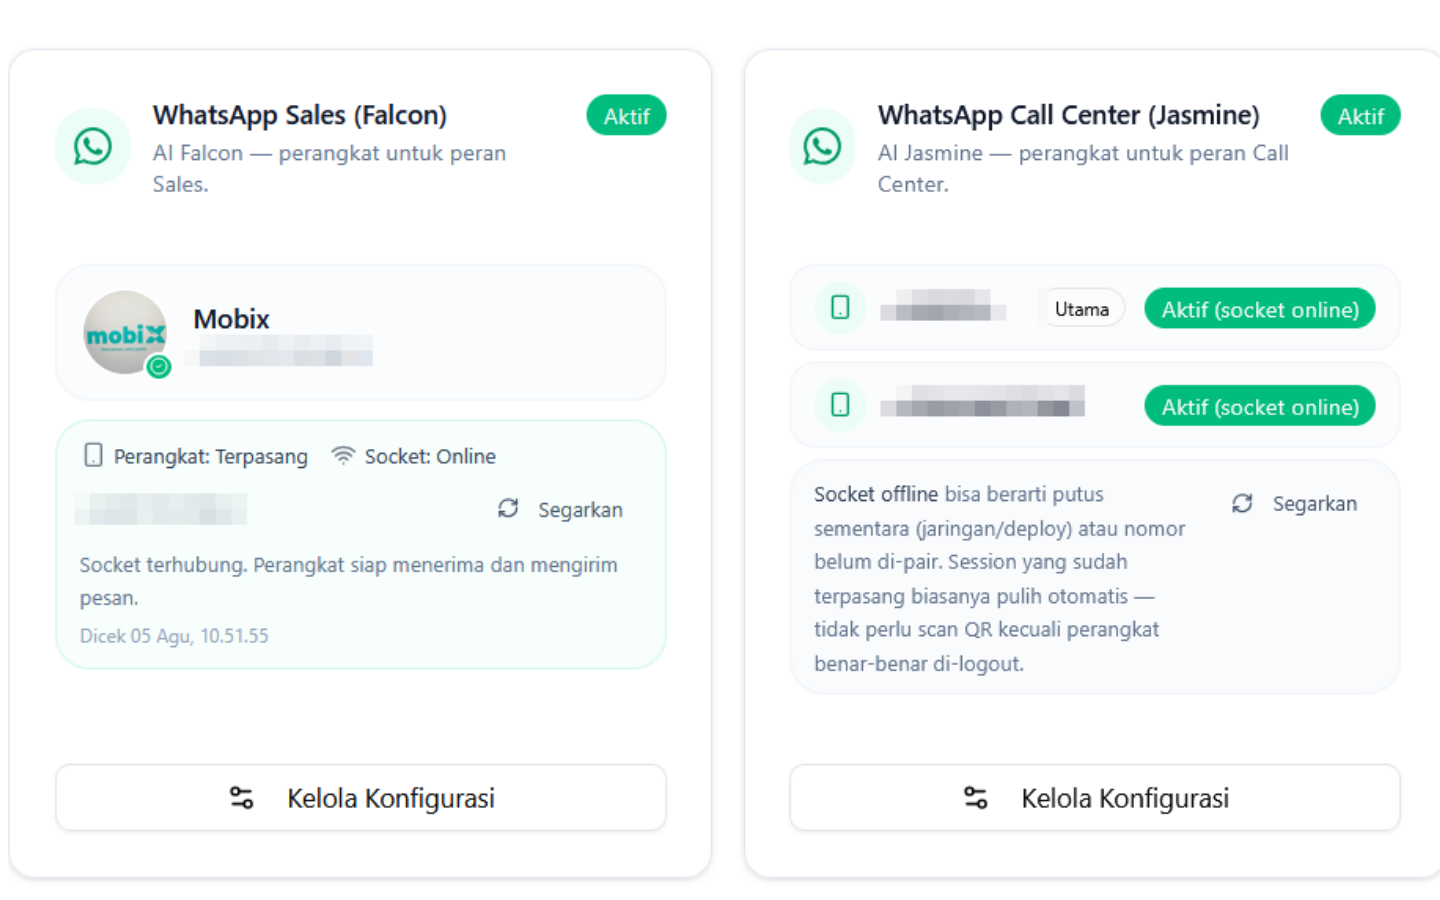
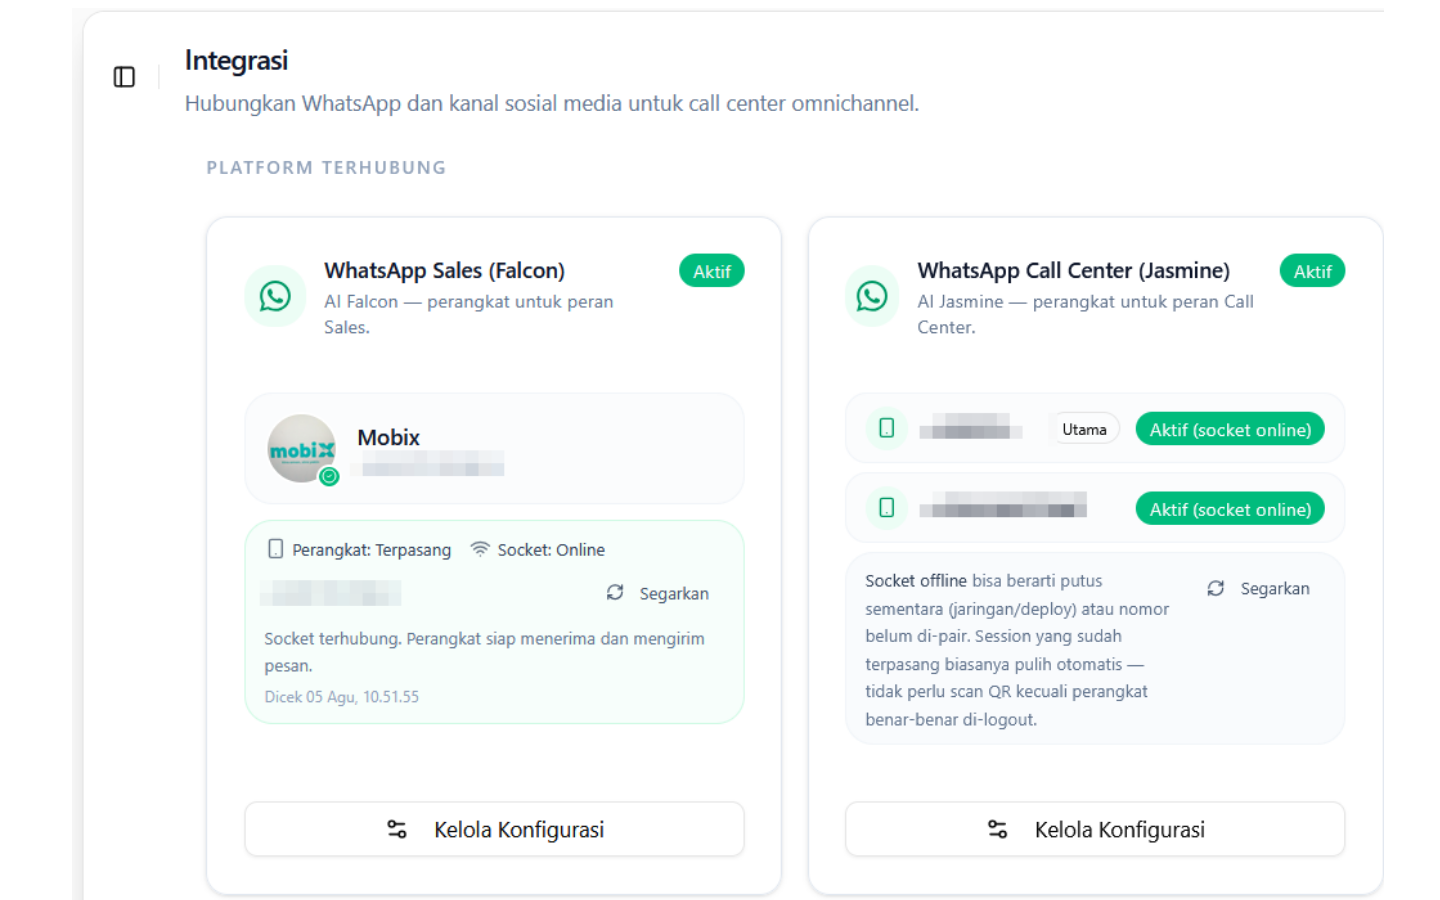
fix(fitur): tampilkan halaman integrasi penuh
Release-Feature: Core Platform Agentic AI
Release-Note: Fitur integrasi kini menampilkan halaman Integrasi secara utuh tanpa menu sidebar.

diff --git a/fitur/feature-page.js b/fitur/feature-page.js
@@ -560,7 +560,7 @@
     };
 
     if (id === "core-platform-agentic-ai") {
-      return [previewFactory("core-platform-whatsapp-integrations-public.png", "Core Platform · Integrasi WhatsApp"), previews.analytics, previews.integrations];
+      return [previewFactory("core-platform-whatsapp-integrations-public.png?v=20260806-1", "Core Platform · Integrasi WhatsApp"), previews.analytics, previews.integrations];
     }
     if (id === "omni-jasmine-ai") {
       return [previewFactory("omnichannel-faneling-public.png", "Omni + Jasmine AI"), previews.omni, previews.integrations];
@@ -641,7 +641,7 @@
     } else if (slug === "core-platform-agentic-ai" && /role|permission/i.test(capabilityTitle)) {
       preview = captured("core-platform-role-permission-public.png", "Core Platform · Role & Permission", "Admin mengatur hak akses per role melalui halaman edit permission yang lengkap.");
     } else if (slug === "core-platform-agentic-ai" && /integrasi channel/i.test(capabilityTitle)) {
-      preview = captured("core-platform-whatsapp-integrations-public.png", "Core Platform · Integrasi WhatsApp", "WhatsApp Sales dan Call Center aktif dalam satu pusat konfigurasi tanpa menampilkan kanal yang tidak relevan.");
+      preview = captured("core-platform-whatsapp-integrations-public.png?v=20260806-1", "Core Platform · Integrasi WhatsApp", "WhatsApp Sales dan Call Center aktif dalam satu pusat konfigurasi tanpa menampilkan kanal yang tidak relevan.");
     } else if (slug === "core-platform-agentic-ai" && /agentic ai|native tools/i.test(capabilityTitle)) {
       preview = captured("core-platform-native-ai-tools-public.png?v=20260805-2", "Core Platform · Native AI Tools", "Jasmine memakai inventori tenant untuk menjawab kebutuhan unit, memperbarui konteks lead, dan mendukung takeover serta handoff sesuai role.");
     } else if (slug === "inventory-falcon-ai" && /listing|import|validasi/i.test(capabilityTitle)) {

diff --git a/fitur/core-platform-agentic-ai.html b/fitur/core-platform-agentic-ai.html
@@ -66,7 +66,7 @@
 
     <script>window.__FEATURE_SLUG__ = "core-platform-agentic-ai";</script>
     <script src="./features-data.js"></script>
-    <script src="./feature-page.js?v=20260805-2"></script>
+    <script src="./feature-page.js?v=20260806-1"></script>
     <script src="../script.js?v=20260806-2"></script>
   </body>
 </html>
